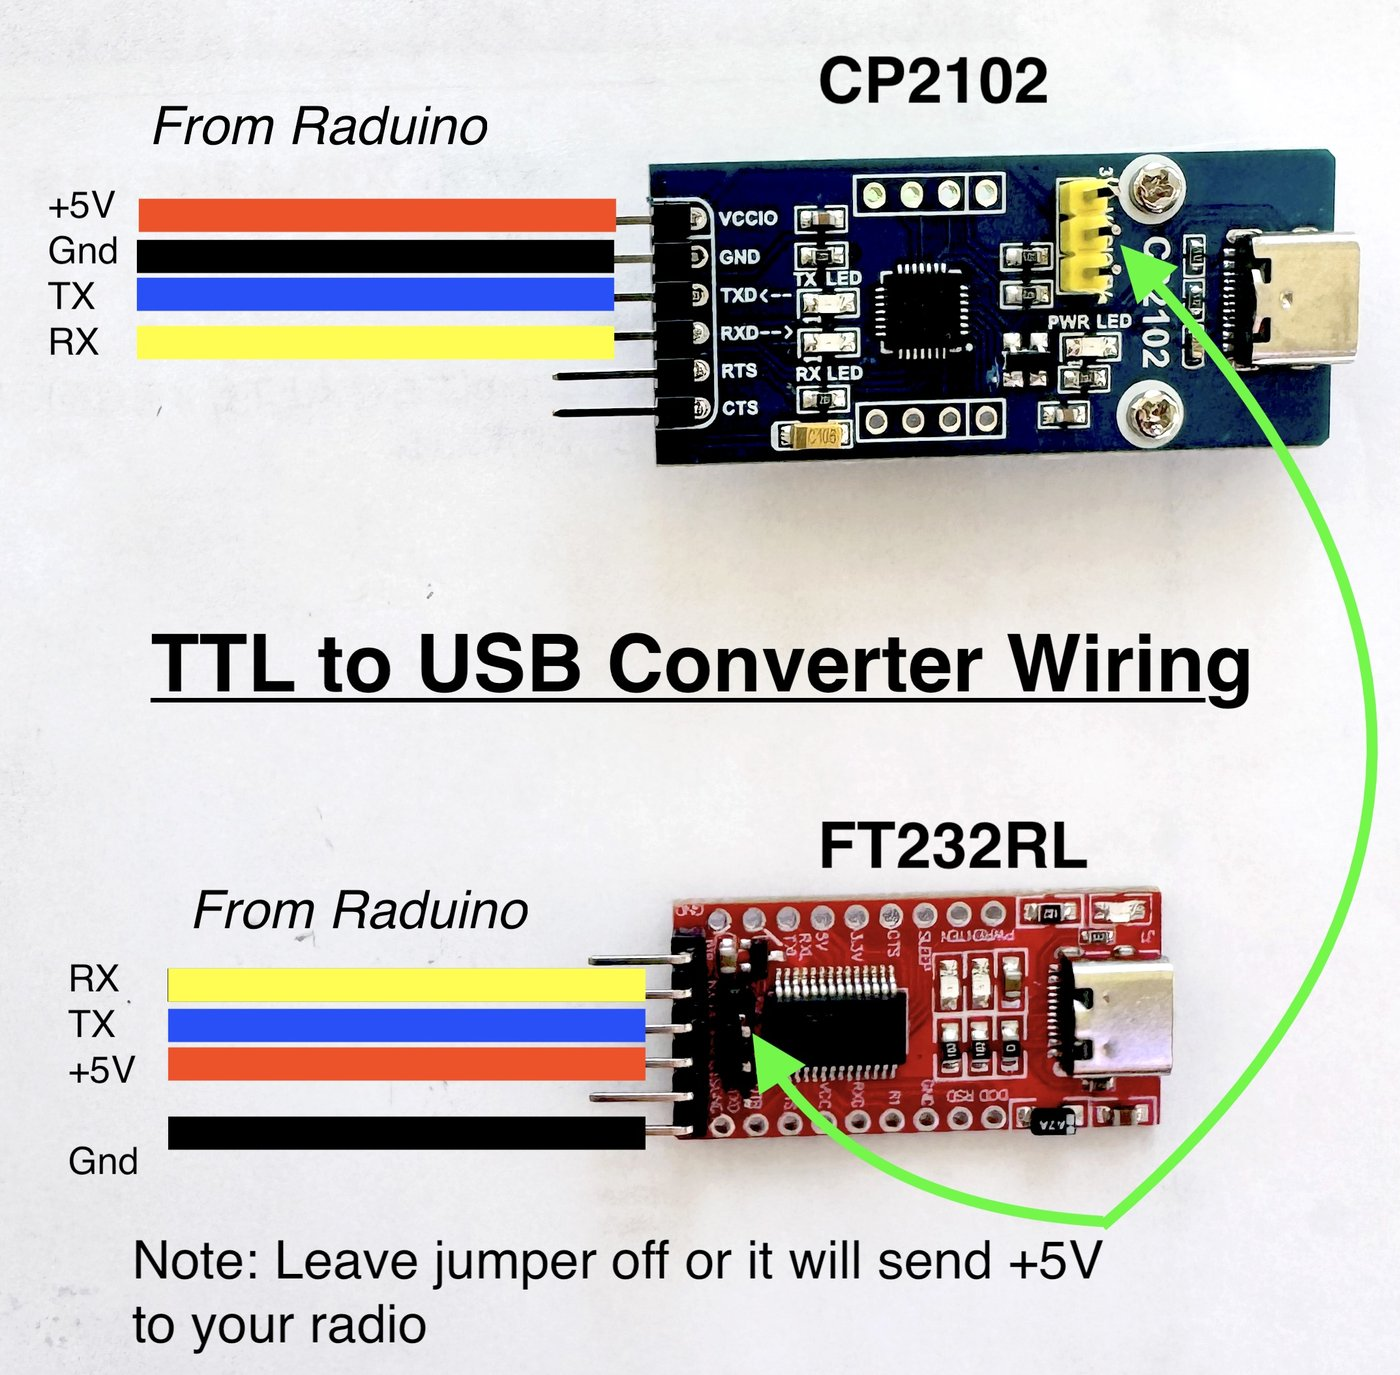
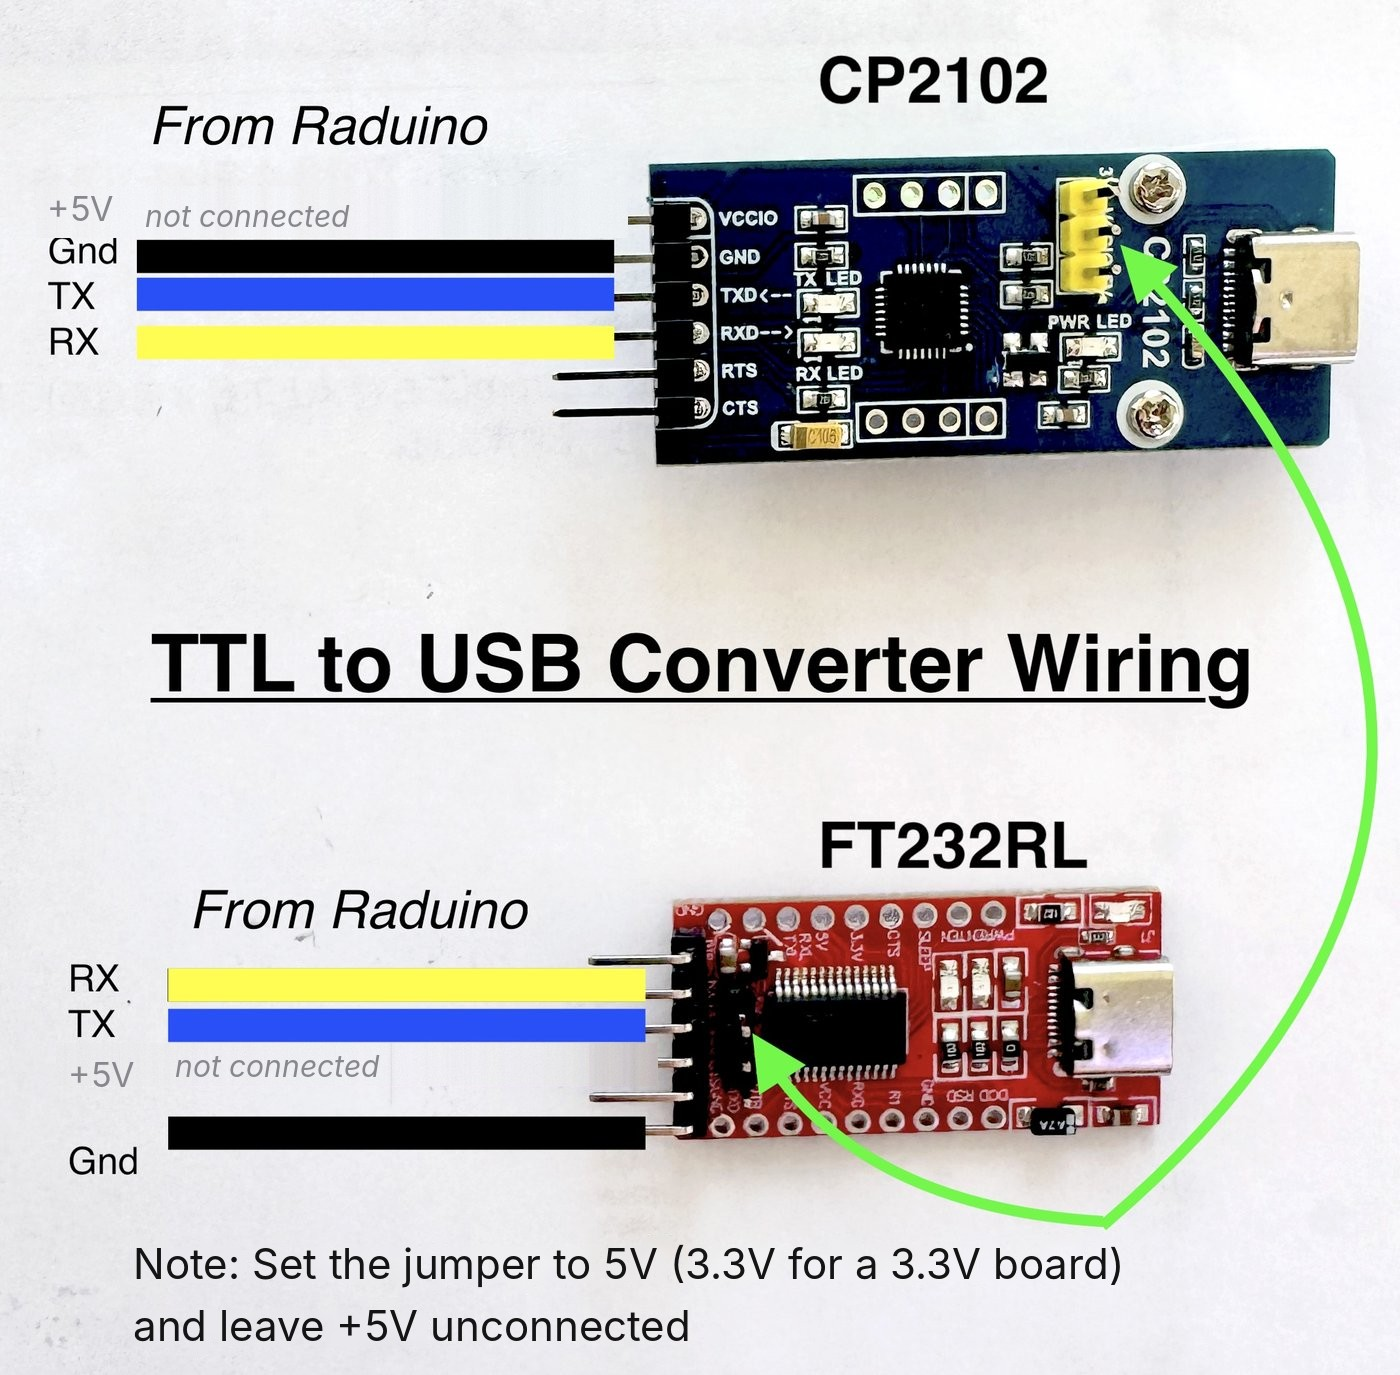
Help: the adapter picture shows three wires and the jumper set
usb-ttl-adapter.jpg showed the red +5V wire on each adapter and the note
"Leave jumper off or it will send +5V to your radio". Edited to match the
three-wire wiring: the red bars removed and the +5V lines marked "not
connected", and the note now reads "Set the jumper to 5V (3.3V for a
3.3V board) and leave +5V unconnected". The arrows still point to the
jumper. The photo itself shows no jumper cap fitted; a retake with the
cap on 5 V would be better still (SHOTLIST says so).

SHOTLIST also marks sdr-layout.jpg done.

Claude-Session: https://claude.ai/code/session_0123huCKYjMfy7MoAAYV7SKk

Changed region(s): [[0.0921, 0.8858, 0.7986, 0.9775], [0.0307, 0.1222, 0.4607, 0.1833], [0.0614, 0.7636, 0.4607, 0.7942]]

diff --git a/src/help/SHOTLIST.md b/src/help/SHOTLIST.md
@@ -4,7 +4,7 @@ Save each one in `help/images/` under the name given. The page shows it in place
 
 | File | What it should show |
 | :--- | :--- |
-| `usb-ttl-adapter.jpg` | **Retake (2026-11-22):** the jumper now goes ON (5 V for a Nano Raduino), and the red wire is NOT connected. Show the jumper on 5 V and the red wire taped off. |
+| `usb-ttl-adapter.jpg` | Done (edited 2026-11-22): the +5V wires shown "not connected", the note says set the jumper to 5V (3.3V for a 3.3V board). The photo still shows no jumper cap fitted; a retake with the cap on 5 V would be better still. |
 | `uBITX_V3_4_5_Nextion_Wiring.jpg` | Done: the Nextion cable on a V3/V4/V5 Raduino. |
 | `uBITX_V6_Nextion_Wiring.jpg` | Done: the Nextion cable on a V6 Raduino (from below). |
 | `usb-ttl-wiring-v3_4_5_Raduino.jpg` | **Redo (2026-11-22):** three wires only (pins 1, 4, 6); no +5 V to the adapter; jumper on 5 V. |
@@ -22,7 +22,7 @@ Save each one in `help/images/` under the name given. The page shows it in place
 | `nextion_baud_change.jpg` | Done: `SWSerial_Begin` 9600 to 57600 in `ubitx_lcd_nextion.ino`. |
 | `arduino_ide_nano_bootloader.jpg` | Done: Tools, Arduino Nano, port and Processor (new or old bootloader). |
 | `station.jpg` | The complete station: uBITX, SDR dongle, antenna switch and laptop, with the cables visible (antenna to switch, switch to uBITX and SDR, USB-TTL adapter and SDR to the laptop). The app on screen, ideally with the SDR's waterfall showing. |
-| `sdr-layout.jpg` | Setting up an SDR ▸ Arranging the windows: uBITX CEC Desktop on top, the SDR's spectrum and waterfall below at the same width. JPG (the waterfall), about 1600 px wide, under 400 KB. |
+| `sdr-layout.jpg` | Done: Brown's full window, then cut down under uBITX CEC Desktop (in Brown's section). |
 | `brown-servers-hamlib.png` | Done: Brown, Settings ▸ Servers, the Hamlib rigctld server. Allow clients to transmit off. |
 | `brown-servers-cw.png` | Done: Brown, Settings ▸ Servers, Decoded CW over UDP on 127.0.0.1:9998, its own APPLY. |
 | `brown-undock.png` | Done: Brown, Settings ▸ Detachable, Panadapter undocked. |
